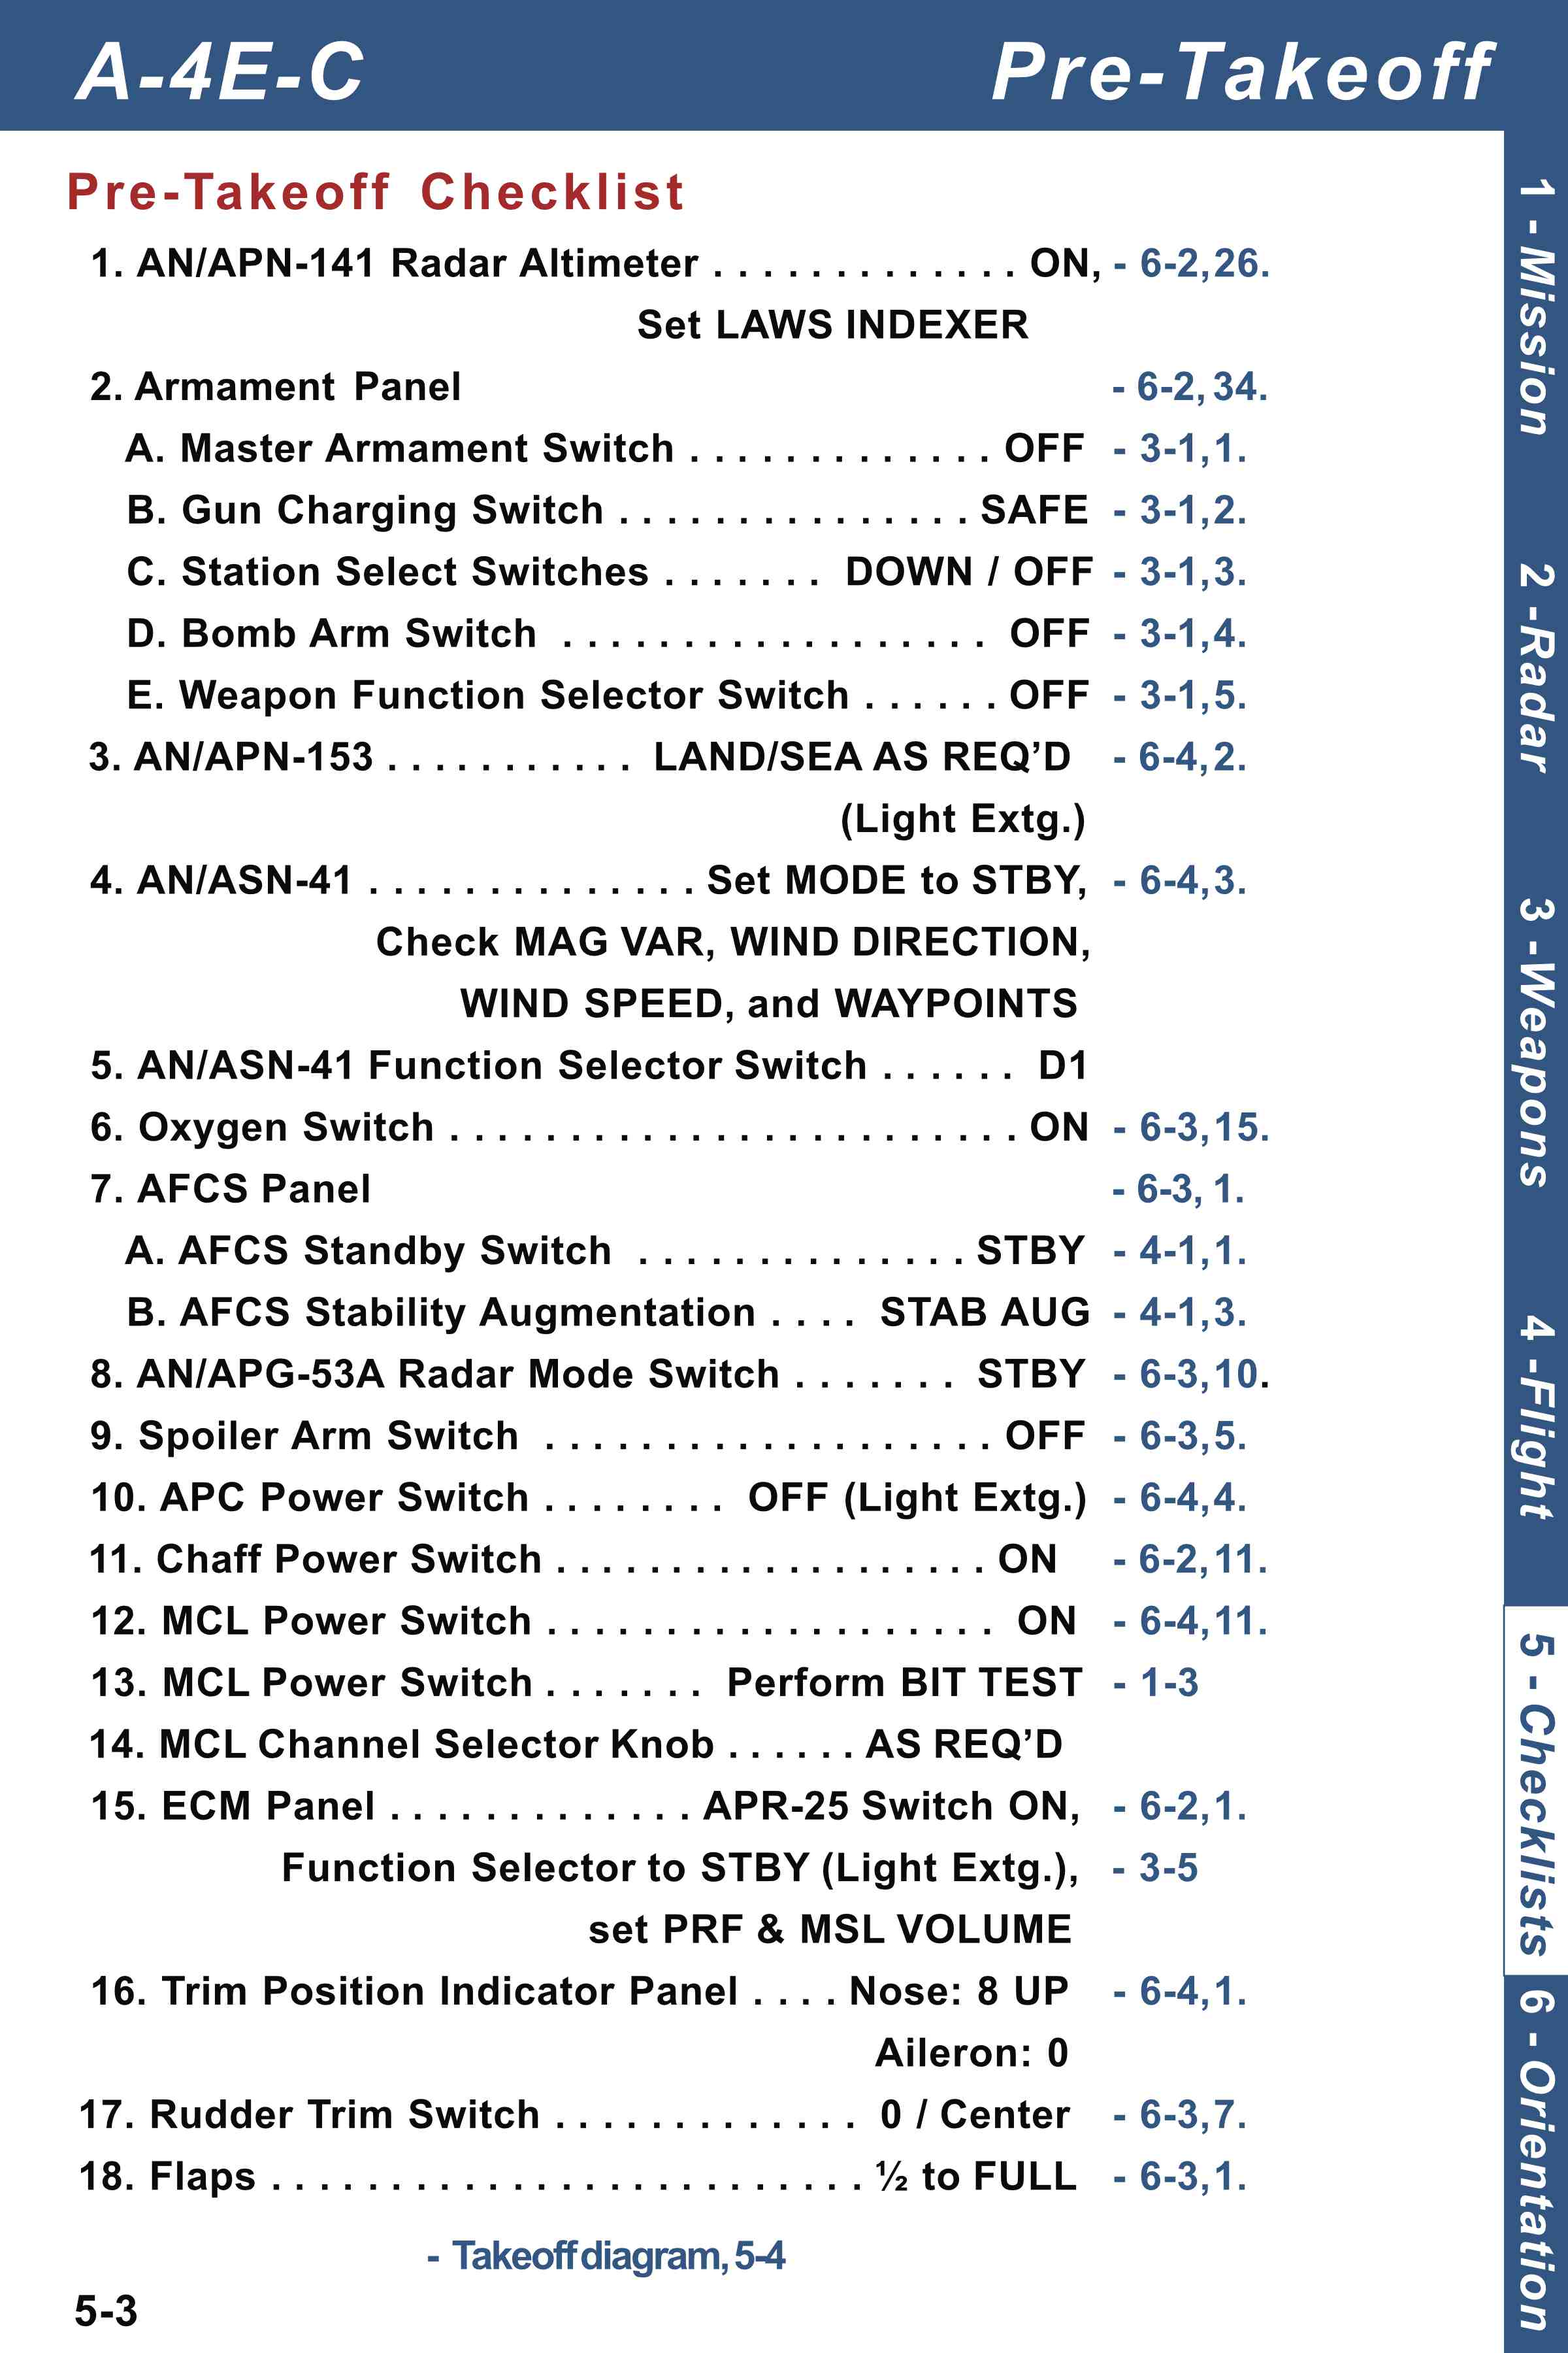
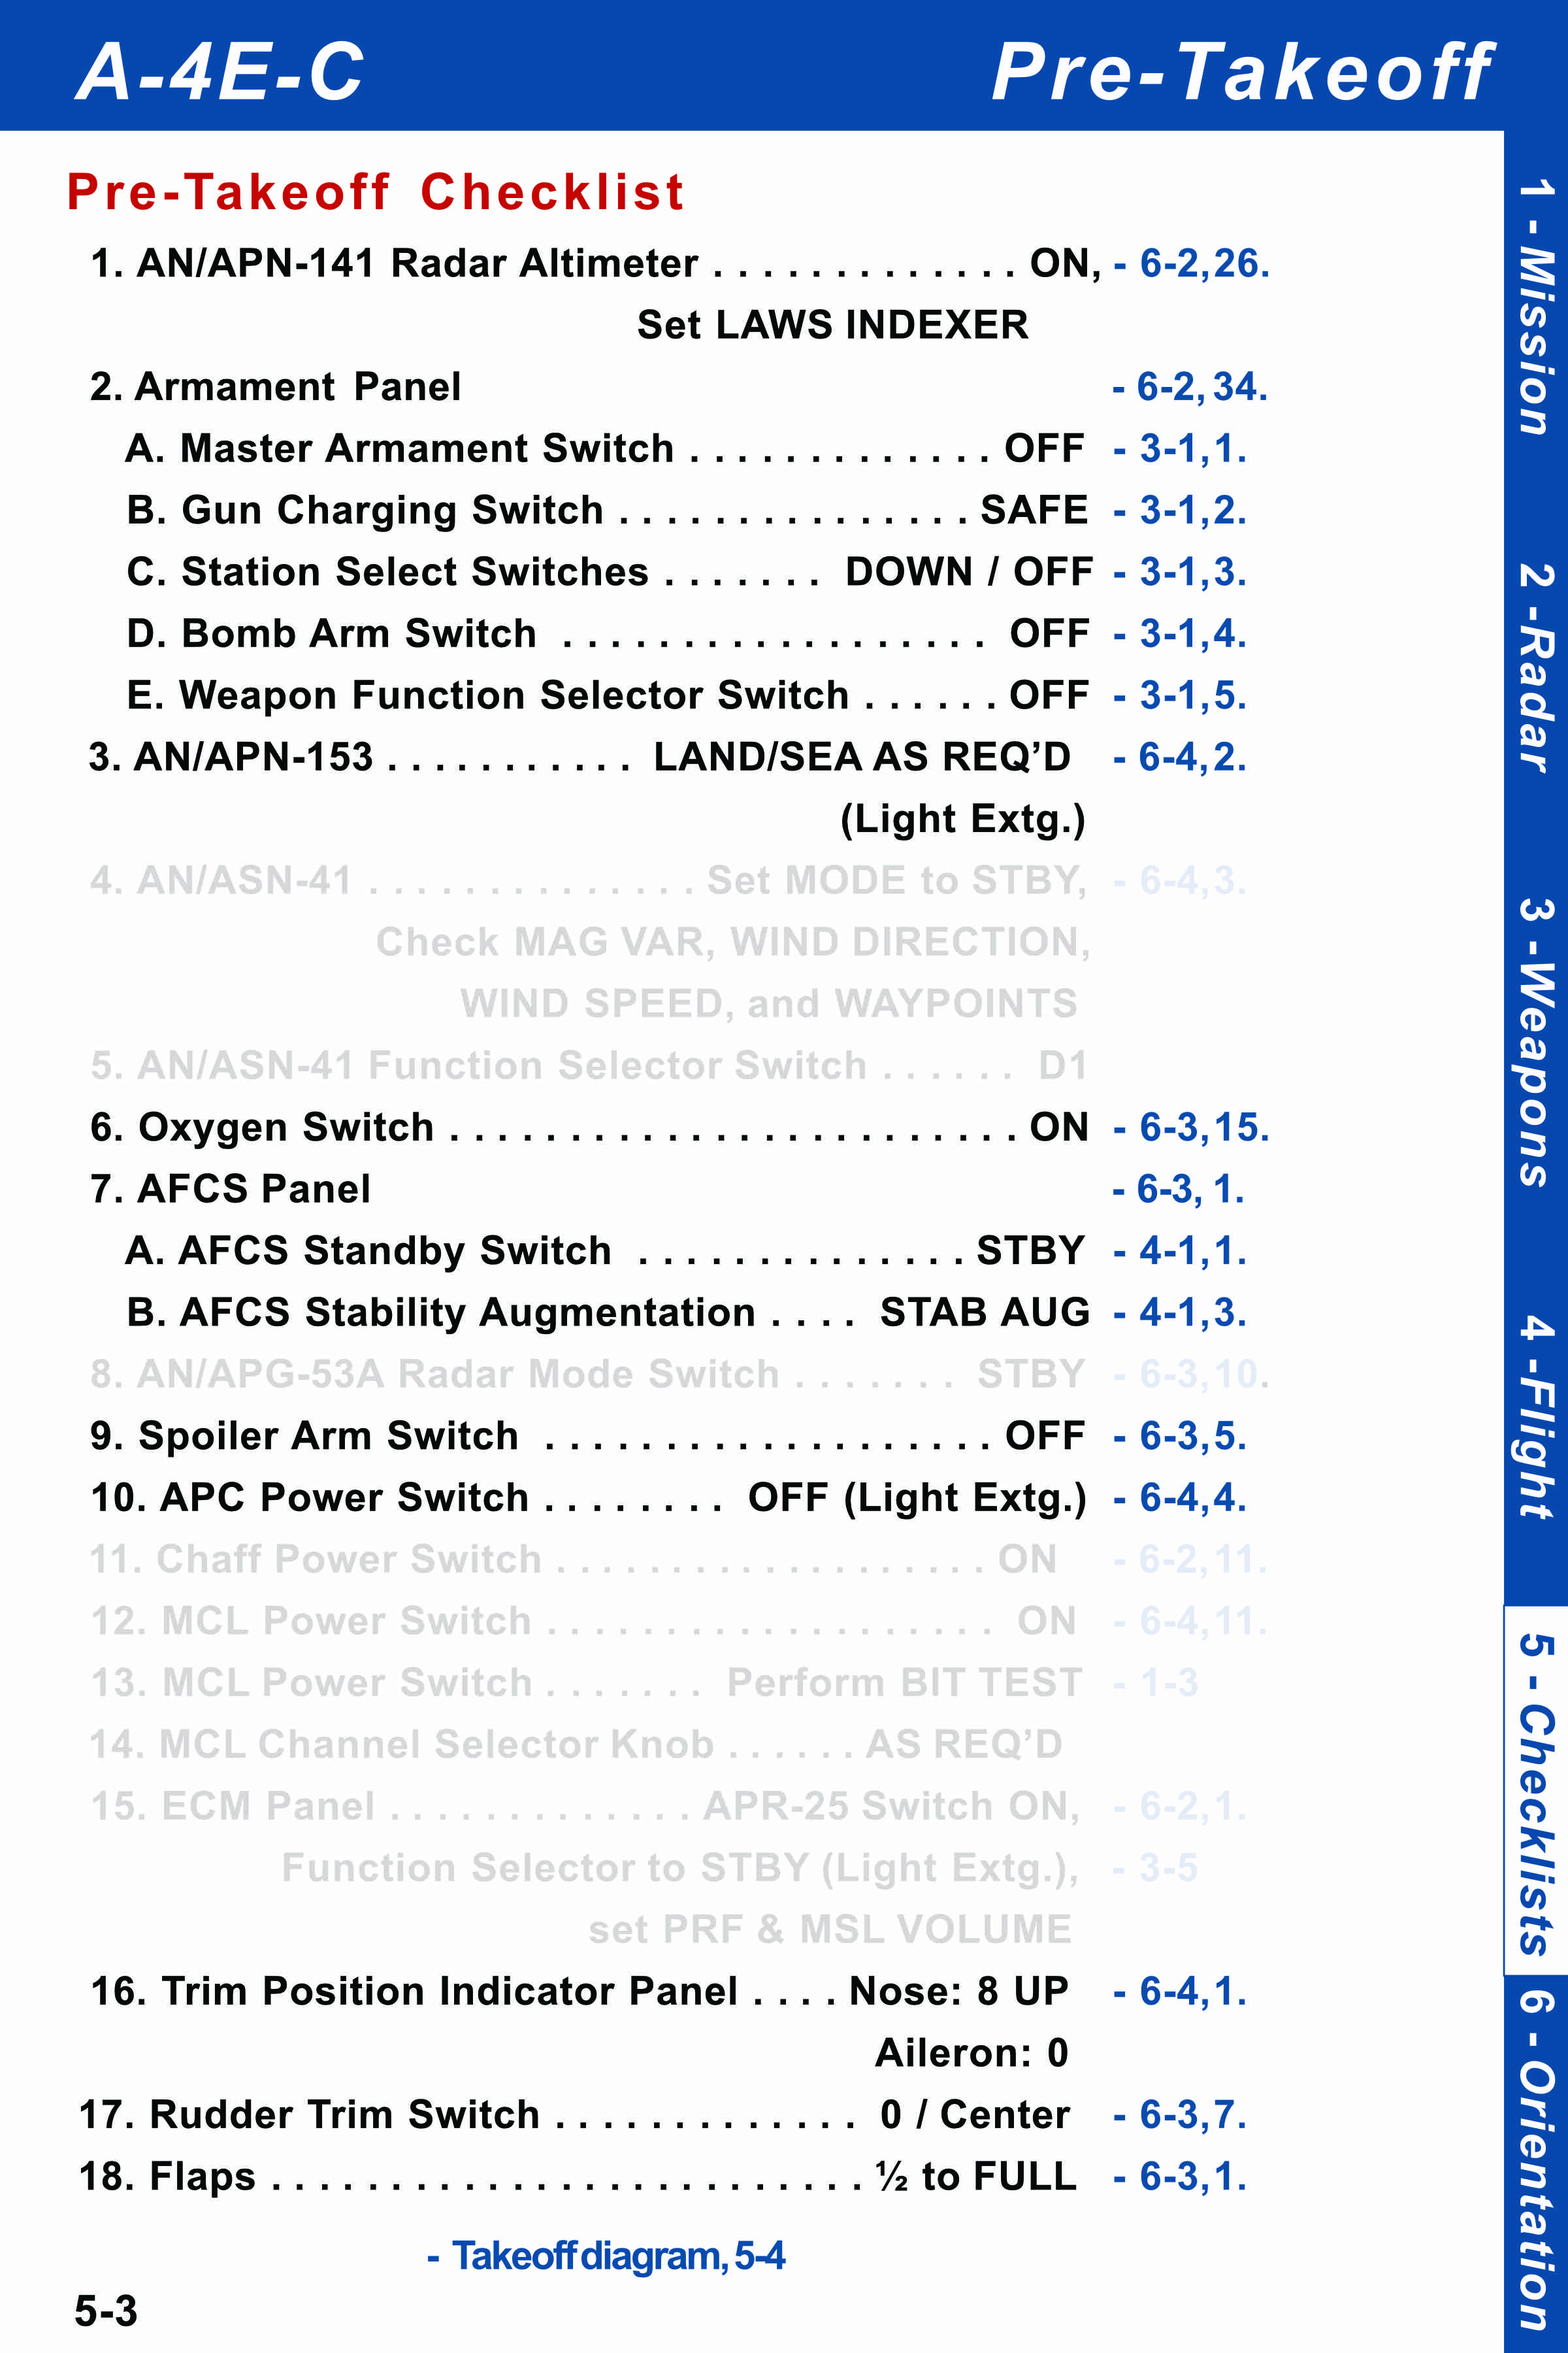
updated graphics and wording around checklists

diff --git a/sortie-1/training.md b/sortie-1/training.md
@@ -163,16 +163,16 @@ Taxing your A-4E-C Skyhawk requires the use of differential braking. This necess
 
 In our training sorties we will attempt to limit the amount of required taxiing for our Cadets.
 
-When we start in our aircraft we will perform a pre-taxi checklist, as we can see below. This checklist is also included in the kneeboard in-game.
+When we start in our aircraft we can perform a pre-taxi checklist, this helps us ensure that our aircraft is configured correctly. This checklist is also included in the kneeboard in-game. Here is a modified version of the checklist covering only the portions that we require for these sorties.
 
 ![A-4E-C Checklist - Pre-taxi](a-4e-c_pre-tax_checklist.jpg)
 
-After your flight leader completes their copy of this checklist they will use interflight radio to ask for your status with a *check-in* call out. Once your checklist is completed then you may reply with your *Green Jet* reply, if you still need time then communicate that to your flight lead.
+After your flight leader completes their copy of this checklist they will use interflight radio to ask for your status with a *check-in* call out. Once you are satisfied that your aircraft is ready, and you have no warnings or cautions, then you may reply with your *Green Jet* reply, if you still need time then communicate that to your flight lead.
 
 Once all aircraft in the flight are ready, your flight lead will make an announcement on the airfield radio frequency, this is your last signal to begin watching your flight lead who will begin taxiing. They may also call out when they start taxiing. It is important to wait until your flight leader is clear of you before you begin taxiing to follow. Ensure at least 2 aircraft distance from your flight lead at all times on the ground.
 
 ### Pre-takeoff Checklist
-Before entering the runway you and your flight lead will stop and perform the Pre-takeoff checklist. 
+Before entering the runway you and your flight lead will stop and perform the Pre-takeoff checklist. It is recommended you do the same, but not required. Here is a modified checklist that you can use during these sorties.
 
 ![A-4E-C Checklist - Pre-Takeoff](a-4e-c_pre-takeoff_checklist.jpg)
 
